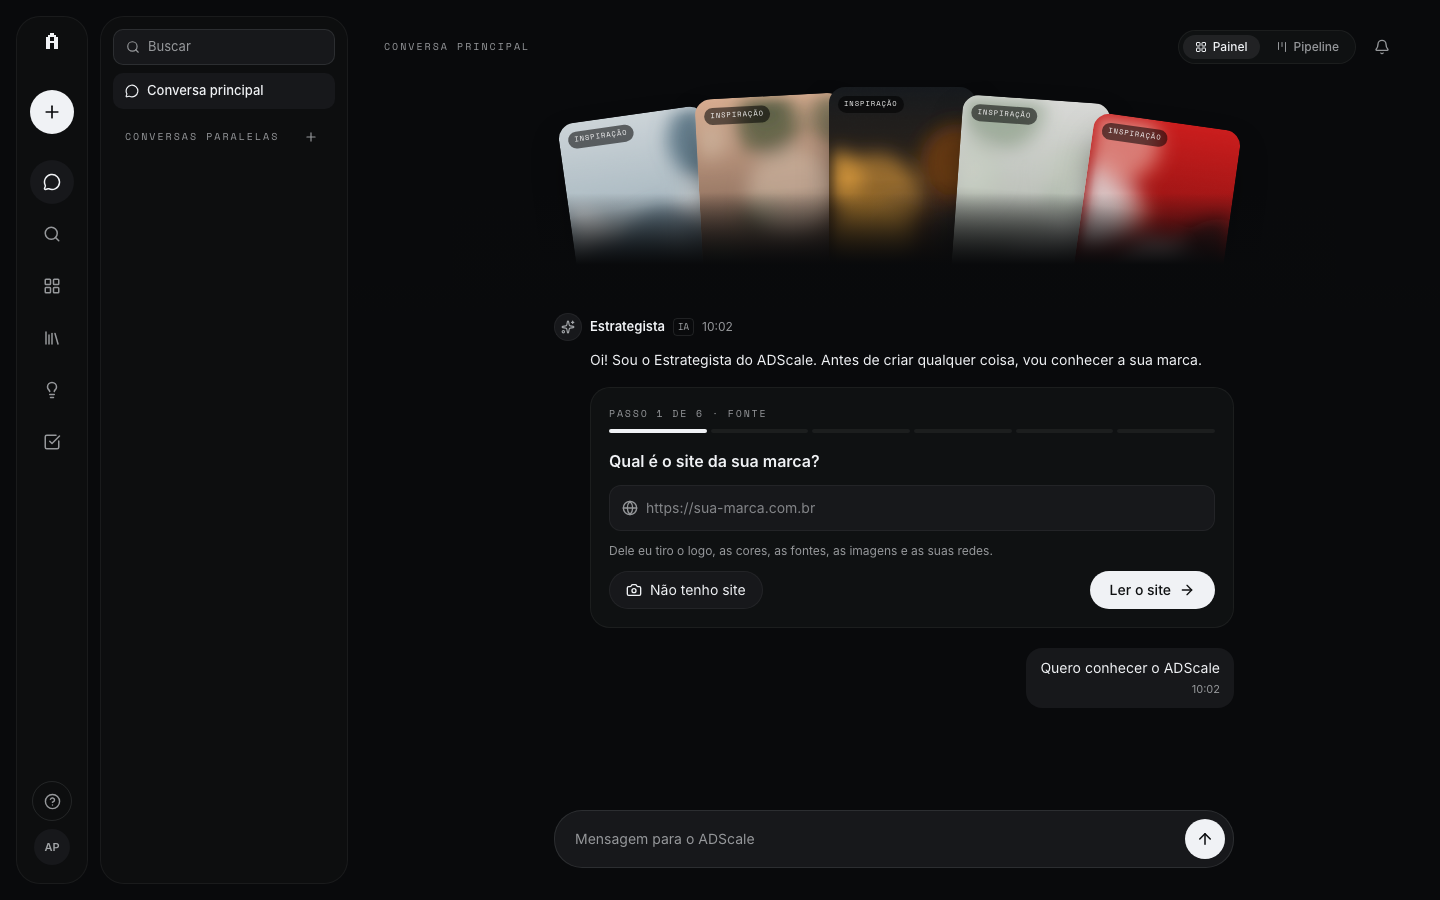
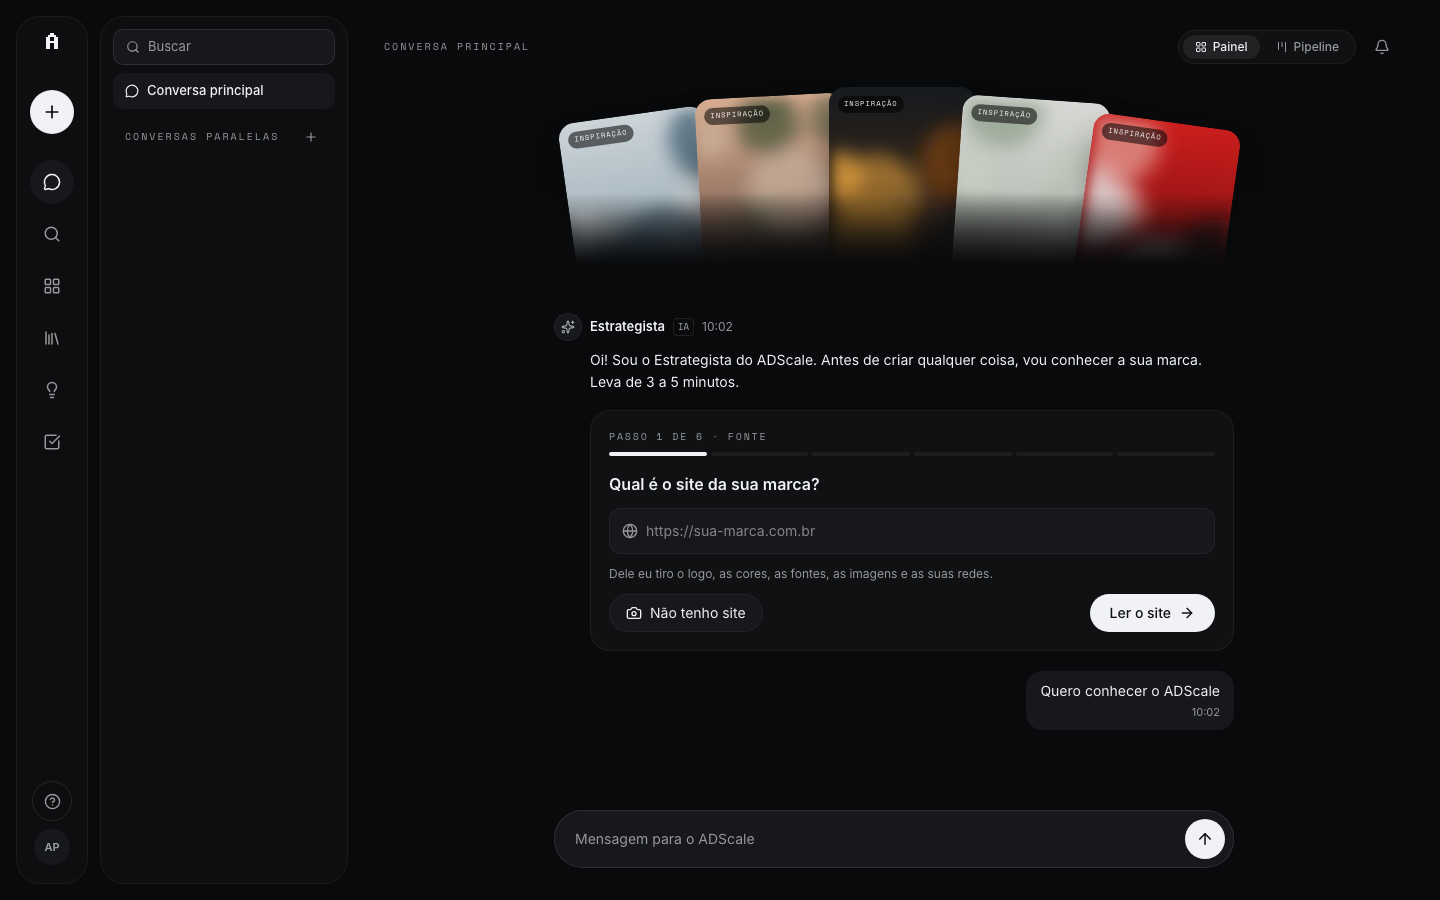
docs(design): prints of the first open and the Library phase with the new opening line
The eight captures that show the Strategist's opening line were retaken with
"Leva de 3 a 5 minutos.": H1 and its side-by-side with the v4 PNG, the first
answer on desktop and phone, the phone's first open, the mesa in the Library
phase on desktop and phone, and the 768 px tablet. Same script
(app/scripts/pilot-states.ts), the same viewports and the same account initials
as the earlier prints; the other prints do not show the line (the conversation is
scrolled past it or the mesa covers it), which was checked state by state.

Changed region(s): [[0.4062, 0.4667, 0.6875, 0.6844], [0.7188, 0.6222, 0.8438, 0.7778], [0.4062, 0.4044, 0.5, 0.4356]]

diff --git a/docs/design/verification/fluxo0-09/README.md b/docs/design/verification/fluxo0-09/README.md
@@ -4,7 +4,7 @@ Capturas de 01/10/2026, Chromium (Playwright) contra `next dev` com o gate ligad
 
 | Evidência | O que mostra | Limite |
 | --- | --- | --- |
-| [H1 lado a lado](h1-comparison.png) · [desktop](h1-implemented-desktop.png) | 1ª abertura: o leque grande de 5 inspirações, a fala de abertura do Estrategista e o card "Qual é o site da sua marca?" | A v4 mostra o endereço já digitado e a promessa "Leva uns 3 minutos" (ver diferenças) |
+| [H1 lado a lado](h1-comparison.png) · [desktop](h1-implemented-desktop.png) | 1ª abertura: o leque grande de 5 inspirações, a fala de abertura do Estrategista e o card "Qual é o site da sua marca?" | A v4 mostra o endereço já digitado e "Leva uns 3 minutos"; aqui a fala diz "Leva de 3 a 5 minutos." (ver diferenças) |
 | [Depois da 1ª resposta](answered-compact-desktop.png) · [celular](mobile-answered.png) | O leque compacto, sem título cortado nas cartas; no celular a mesa já fica fixa | Os títulos das inspirações só aparecem no leque grande (ver diferenças) |
 | [H2](h2-comparison.png) · [1024](tablet-1024-reading.png) · [768](tablet-768-reading.png) · [390](mobile-reading.png) | Leitura em andamento: a mesa **fica fixa no topo** com a marca se montando (logo, paleta e as cartas "na fila"), em todas as larguras, com a conversa rolada até o fim | A foto do site só entra quando o grupo de imagens termina (ver diferenças) |
 | [H3](h3-comparison.png) · [H4](h4-comparison.png) · [H5](h5-comparison.png) · [H6](h6-comparison.png) · [H5 no celular](mobile-images.png) | Os passos de identidade, redes, imagens e resumo dentro da conversa v4, com a mesa fixa: linha da decisão, fala do Estrategista, card do passo e compositor | O interior dos cards é do ticket 04 e não foi redesenhado aqui |
@@ -48,7 +48,7 @@ As capturas usam 1440×900, 1366×650 e 1024×768 (desktop), 768×1024 (tablet) 
 ## Diferenças conscientes
 
 - **Seletor Painel | Pipeline:** o estado ativo usa as cores do sistema, sem o gradiente roxo → pêssego do PNG. O seletor já seguia a regra do produto de não usar gradientes nem acentos roxos.
-- **Fala de abertura sem tempo:** o PNG diz "Leva uns 3 minutos". O tempo até o diagnóstico não foi medido com os fornecedores reais e a maior parte dele é a geração do diagnóstico e a pessoa confirmando os passos; a medição possível e a conclusão estão nas notas de implementação.
+- **Fala de abertura com a faixa medida:** o PNG diz "Leva uns 3 minutos". O teste real com os fornecedores (ticket 12) mediu 139 a 200 s da máquina do clique ao diagnóstico, mais 1 a 2 minutos da pessoa confirmando os 4 cards, e o dono aprovou **"Leva de 3 a 5 minutos."** (ticket 13); as capturas que mostram a fala (H1 e o lado a lado, depois da 1ª resposta no desktop e no celular, o celular da 1ª abertura, a mesa na fase Biblioteca no desktop e no celular, e o tablet de 768) foram refeitas com ela, no mesmo roteiro e com a conta de teste "Ana Paula" (as iniciais AP).
 - **Decisões como linhas, não como balões:** o PNG H2 mostra o endereço digitado como um balão da pessoa. Aqui o card da fonte tem o campo e a decisão vira a linha "Você informou a fonte da marca", o registro das decisões dos cards do ticket 04.
 - **Compositor:** sem o "+" de anexo (a conta grátis recusa imagens) e sem o microfone (o produto não tem ditado).
 - **Criações:** reaproveita a página de trabalhos; muda o título, a ação "Criar" e a tela vazia. O painel de filtros do PNG fica como está hoje na página.
